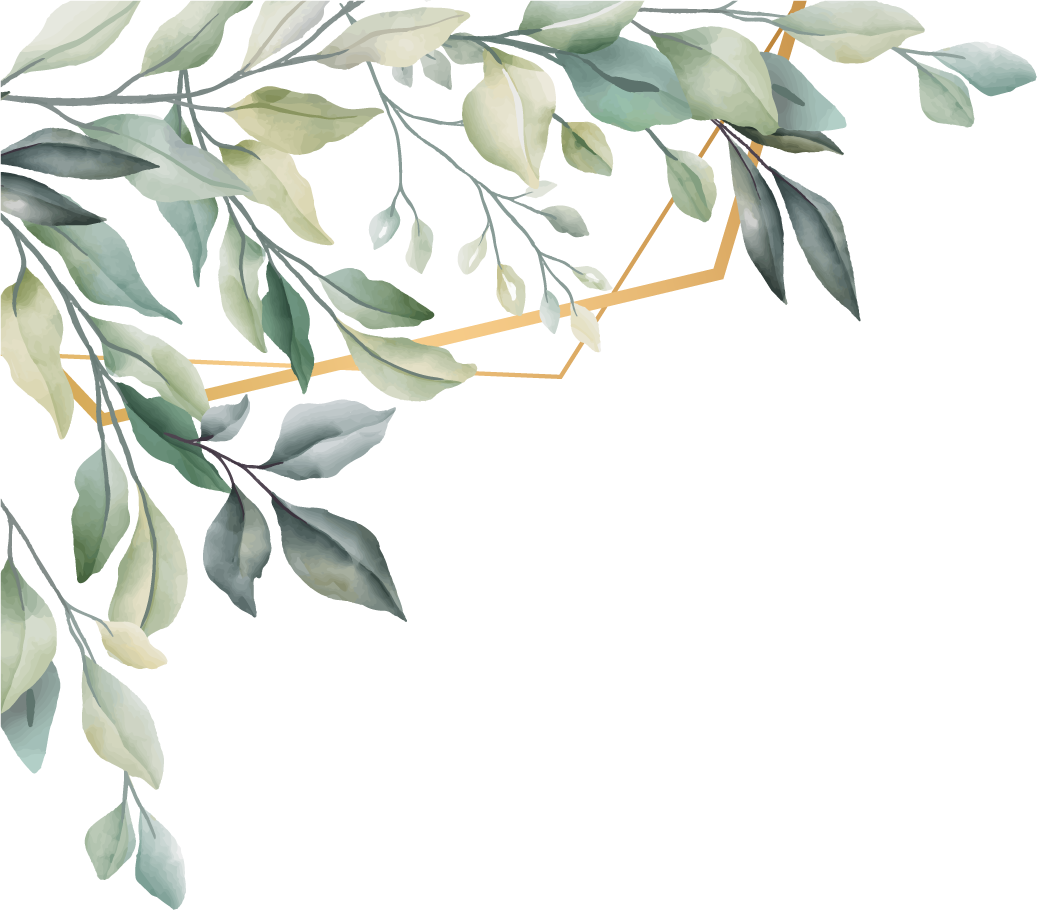
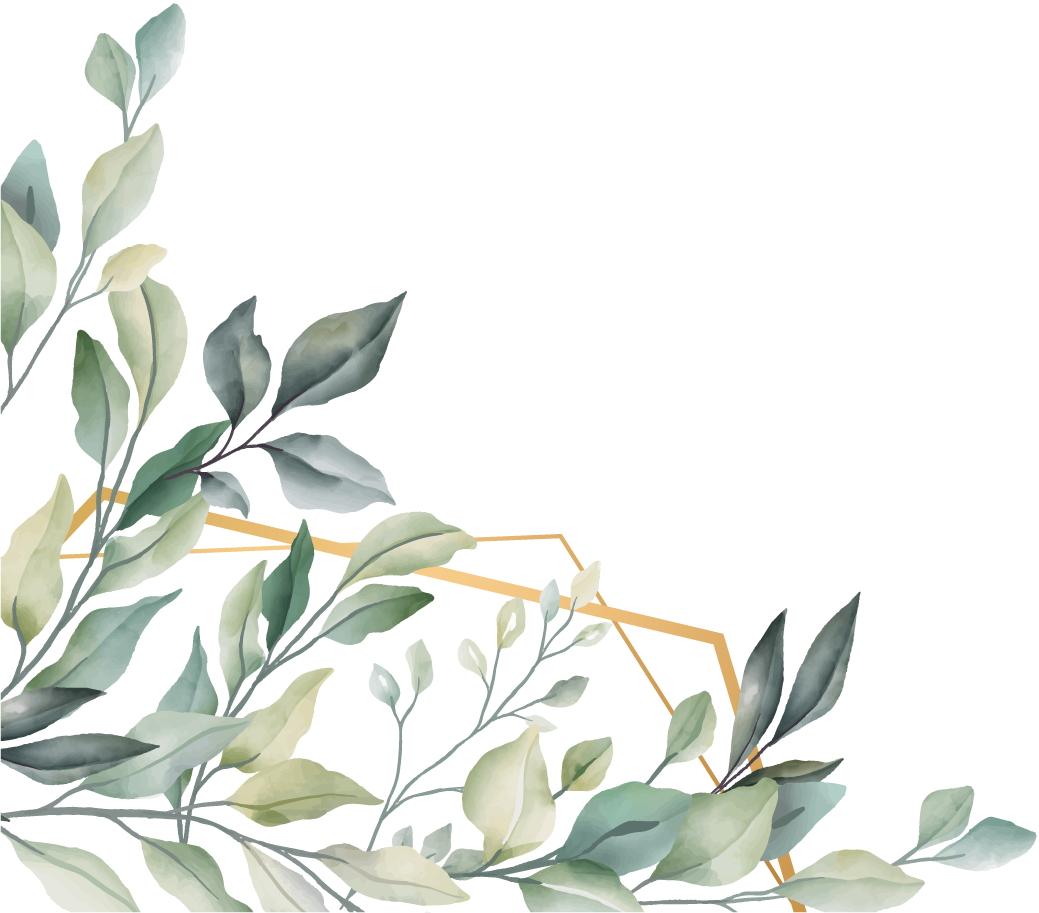
fin seccion lugar, modificaciones en transicion 1 y transicion 2

diff --git a/src/components/LayoutSalon.jsx b/src/components/LayoutSalon.jsx
@@ -1,56 +1,6 @@
 import React, { useState } from 'react'
 import "../assets/styles/layouts.css"
-// export const LayoutSalon = () => {
-//     const [imagenVisible, setImagenVisible] = useState(false);
-//     const imgPortal = '/src/assets/img/elportal.jpg';
-//     const imagePortal01 = (
-//     <img
-//       src={imgPortal}
-//       alt='portal01'
-//       width={400}
-//       height={400}
-//       onClick={() => setImagenVisible(true)}
-//     />
-//     )
-    
-//     const imgPortal02 = '/src/assets/img/elportal02.jpg';
-//     const imagePortal02 = (
-//     <img
-//       src={imgPortal02}
-//       alt='portal02'
-//       width={400}
-//       height={400}
-//       onClick={() => setImagenVisible(true)}
-//     />
-//     )
-    
-
-//     return (
-//         <div className='layoutSalon'>
-//             <div className='imagenesPortal'>
-//               <h1>El lugar:</h1>
-//               <div>
-//                 {imagePortal01}
-//               </div>
-//               <div>
-//                 {imagePortal02}
-//               </div>
-//           </div>
-    
-//           {/* Modal para mostrar la imagen en tamaño completo */}
-//           {imagenVisible && (
-//             <div className="modal" onClick={() => setImagenVisible(false)}>
-//               <img
-//                 src={imagenVisible === 1 ? {imagePortal01} : {imagePortal02}}
-//                 alt={imagenVisible === 1 ? 'portal01' : 'portal02'}
-//                 width={800}
-//                 height={800}
-//               />
-//             </div>
-//           )}
-//         </div>
-//       );
-//     }
+import "../assets/styles/images.css"
 
 export const LayoutSalon = () => {
     const [imagenVisible, setImagenVisible] = useState(null); // Cambia a null para indicar que ninguna imagen está visible
@@ -63,11 +13,21 @@ export const LayoutSalon = () => {
         setImagenVisible(imagen);
     };
 
+    const imgEnd= '/src/assets/img/InvitacionOriginaria02Minus.png';
+    const imageEnd = (
+        <img
+            src={imgEnd}
+            alt='transicionEnd'
+            width={400}
+            height={220}
+        />
+  )  
+
     return (
+        <>
         <div className='layoutSalon'>
             <h1>El lugar:</h1>
-            <div className='imagenesPortal'>
-                
+            <div className='imagenesPortal'>                
                 <div onClick={() => handleImageClick(imgPortal01)}>
                     <img
                         src={imgPortal01}
@@ -92,7 +52,6 @@ export const LayoutSalon = () => {
                         height={300}
                     />
                 </div>
-
             </div>
 
             {/* Modal para mostrar la imagen en tamaño completo */}
@@ -107,6 +66,10 @@ export const LayoutSalon = () => {
                 </div>
             )}
         </div>
+        <div className='imgEndSalon'>
+            {imageEnd}
+        </div>
+        </>
     );
 };
 

diff --git a/src/assets/styles/layouts.css b/src/assets/styles/layouts.css
@@ -90,6 +90,14 @@
     gap: 10px;
     margin-top: 20px;
   }
+/*... Layot Principal*/
+.imagenPRL{
+  display: flex;
+  margin: 0;
+  padding: 0;
+  max-height: 1880px;
+  align-items: flex-start;
+}
 
   /*... Layout transicion 1 */
   .transicionUno{
@@ -175,7 +183,7 @@
   .layoutSalon{
     display: grid;
     margin-top: 20px;
-    margin-left: 145px;
+    margin-left: 130px;
     text-align: left;
   }
 
@@ -183,11 +191,19 @@
     display: flex;
     overflow: hidden;
     margin-top: 20px;
-    margin-right: 180px;
+    margin-right: 120px;
+    margin-bottom: 15px;
     justify-content: space-between;
-    border-radius: 8px;
-    
+    align-items: auto;
   }
+
+  .imagenesPortal > div {
+    display: flex;
+    align-items: auto;
+    justify-content: space-between;
+    border: 0.5px solid grey;
+    border-radius: 3px;    
+ }
 
   .modalSalon {
     position: fixed;
@@ -212,4 +228,11 @@
   
   .modalSalon img:hover {
     transform: scale(1.05); /* Agranda la imagen al pasar el mouse por encima */
+  }
+
+  .imgEndSalon{
+    display: flex;
+    position: relative;
+    margin-left: 880px;
+    text-align: right;
   }

diff --git a/src/App.jsx b/src/App.jsx
@@ -7,6 +7,7 @@ import { LayoutTrn01 } from './components/LayoutTrn01'
 import { LayoutInfo } from './components/LayoutInfo'
 import { Temporizador } from './components/utiles/Temporizador'
 import { LayoutSalon } from './components/LayoutSalon'
+import { LayoutTrn02 } from './components/LayoutTrn02'
 
 
 
@@ -22,7 +23,7 @@ function App() {
         <div className='temporizador-container' >               
           <Temporizador/>
         </div> 
-        <div>
+        <div className='divPrl'>
           <LayoutPrl/>
         </div>
         <div>
@@ -33,6 +34,9 @@ function App() {
         </div>
         <div>
           <LayoutSalon/>
+        </div>
+        <div>
+          <LayoutTrn02/>
         </div>
         <ConfirmacionButton/>
         <div>aqui algo mas</div>

diff --git a/src/components/LayoutInfo.jsx b/src/components/LayoutInfo.jsx
@@ -3,12 +3,12 @@ import "../assets/styles/layouts.css"
 
 
 export const LayoutInfo = () => {
-  const imgUp = '/src/assets/img/InvitacionOriginaria03.png';
+  const imgUp = '/src/assets/img/InvitacionOriginaria04.png';
   const imageUp = (
     <img
       src={imgUp}
       alt='transicionUno'
-      width={600}
+      width={500}
       height={400}
     />
   )
@@ -19,8 +19,8 @@ export const LayoutInfo = () => {
             <div>
                 {imageUp}
             </div>
-            <div>
-                <h1>Ceremonia:</h1>           
+            <div>                
+                <h1>Ceremonia:</h1>          
                 <h2>El Portal, Salon de Eventos</h2>
                 <h4>
                   Calle 57 Nro. 1110

diff --git a/src/components/LayoutPrl.jsx b/src/components/LayoutPrl.jsx
@@ -5,22 +5,22 @@ import '../assets/styles/images.css'
 
 
 const LayoutPrl = () => {
-  const imgPath = '/src/assets/img/InvitacionOriginaria04.png';
+  const imgPath = '/src/assets/img/InvitacionOriginaria01.png';
   const image = (
     <img
       src={imgPath}
       alt='imagenPrl'
-      width={800}
-      height={1200}
+      width={1280}
+      height={1880}
     />
   )  
   return (
-    <>
+    
         <div className='imagenPRL'>
           {image}
         </div>
         
-    </>
+    
 
   )
 };

diff --git a/src/components/LayoutTrn02.jsx b/src/components/LayoutTrn02.jsx
@@ -1,0 +1,23 @@
+import React from 'react'
+
+export const LayoutTrn02 = () => {
+
+    const imgTr02= '/src/assets/img/transicion03.png';
+    const imageTr02 = (
+        <img
+            src={imgTr02}
+            alt='transicionEndT'
+            width={1280}
+            height={425}
+    />
+  )
+  return (
+    <>
+        <div>
+            {imageTr02}
+        </div>
+        
+    </>
+    
+  )
+}

diff --git a/src/assets/styles/images.css b/src/assets/styles/images.css
@@ -1,4 +1,4 @@
-.imagenPRL{
+.imagenPRL {
     max-width: 100%;
     max-height: 100%;
     object-fit: cover;
@@ -24,4 +24,12 @@
     max-height: 100%;
     object-fit: cover;
     align-self: auto;
+}
+
+.portal01{
+    max-width: 100%;
+    max-height: 100%;
+    object-fit: cover;
+    align-self: auto;
+    border-radius: 8px;
 }
